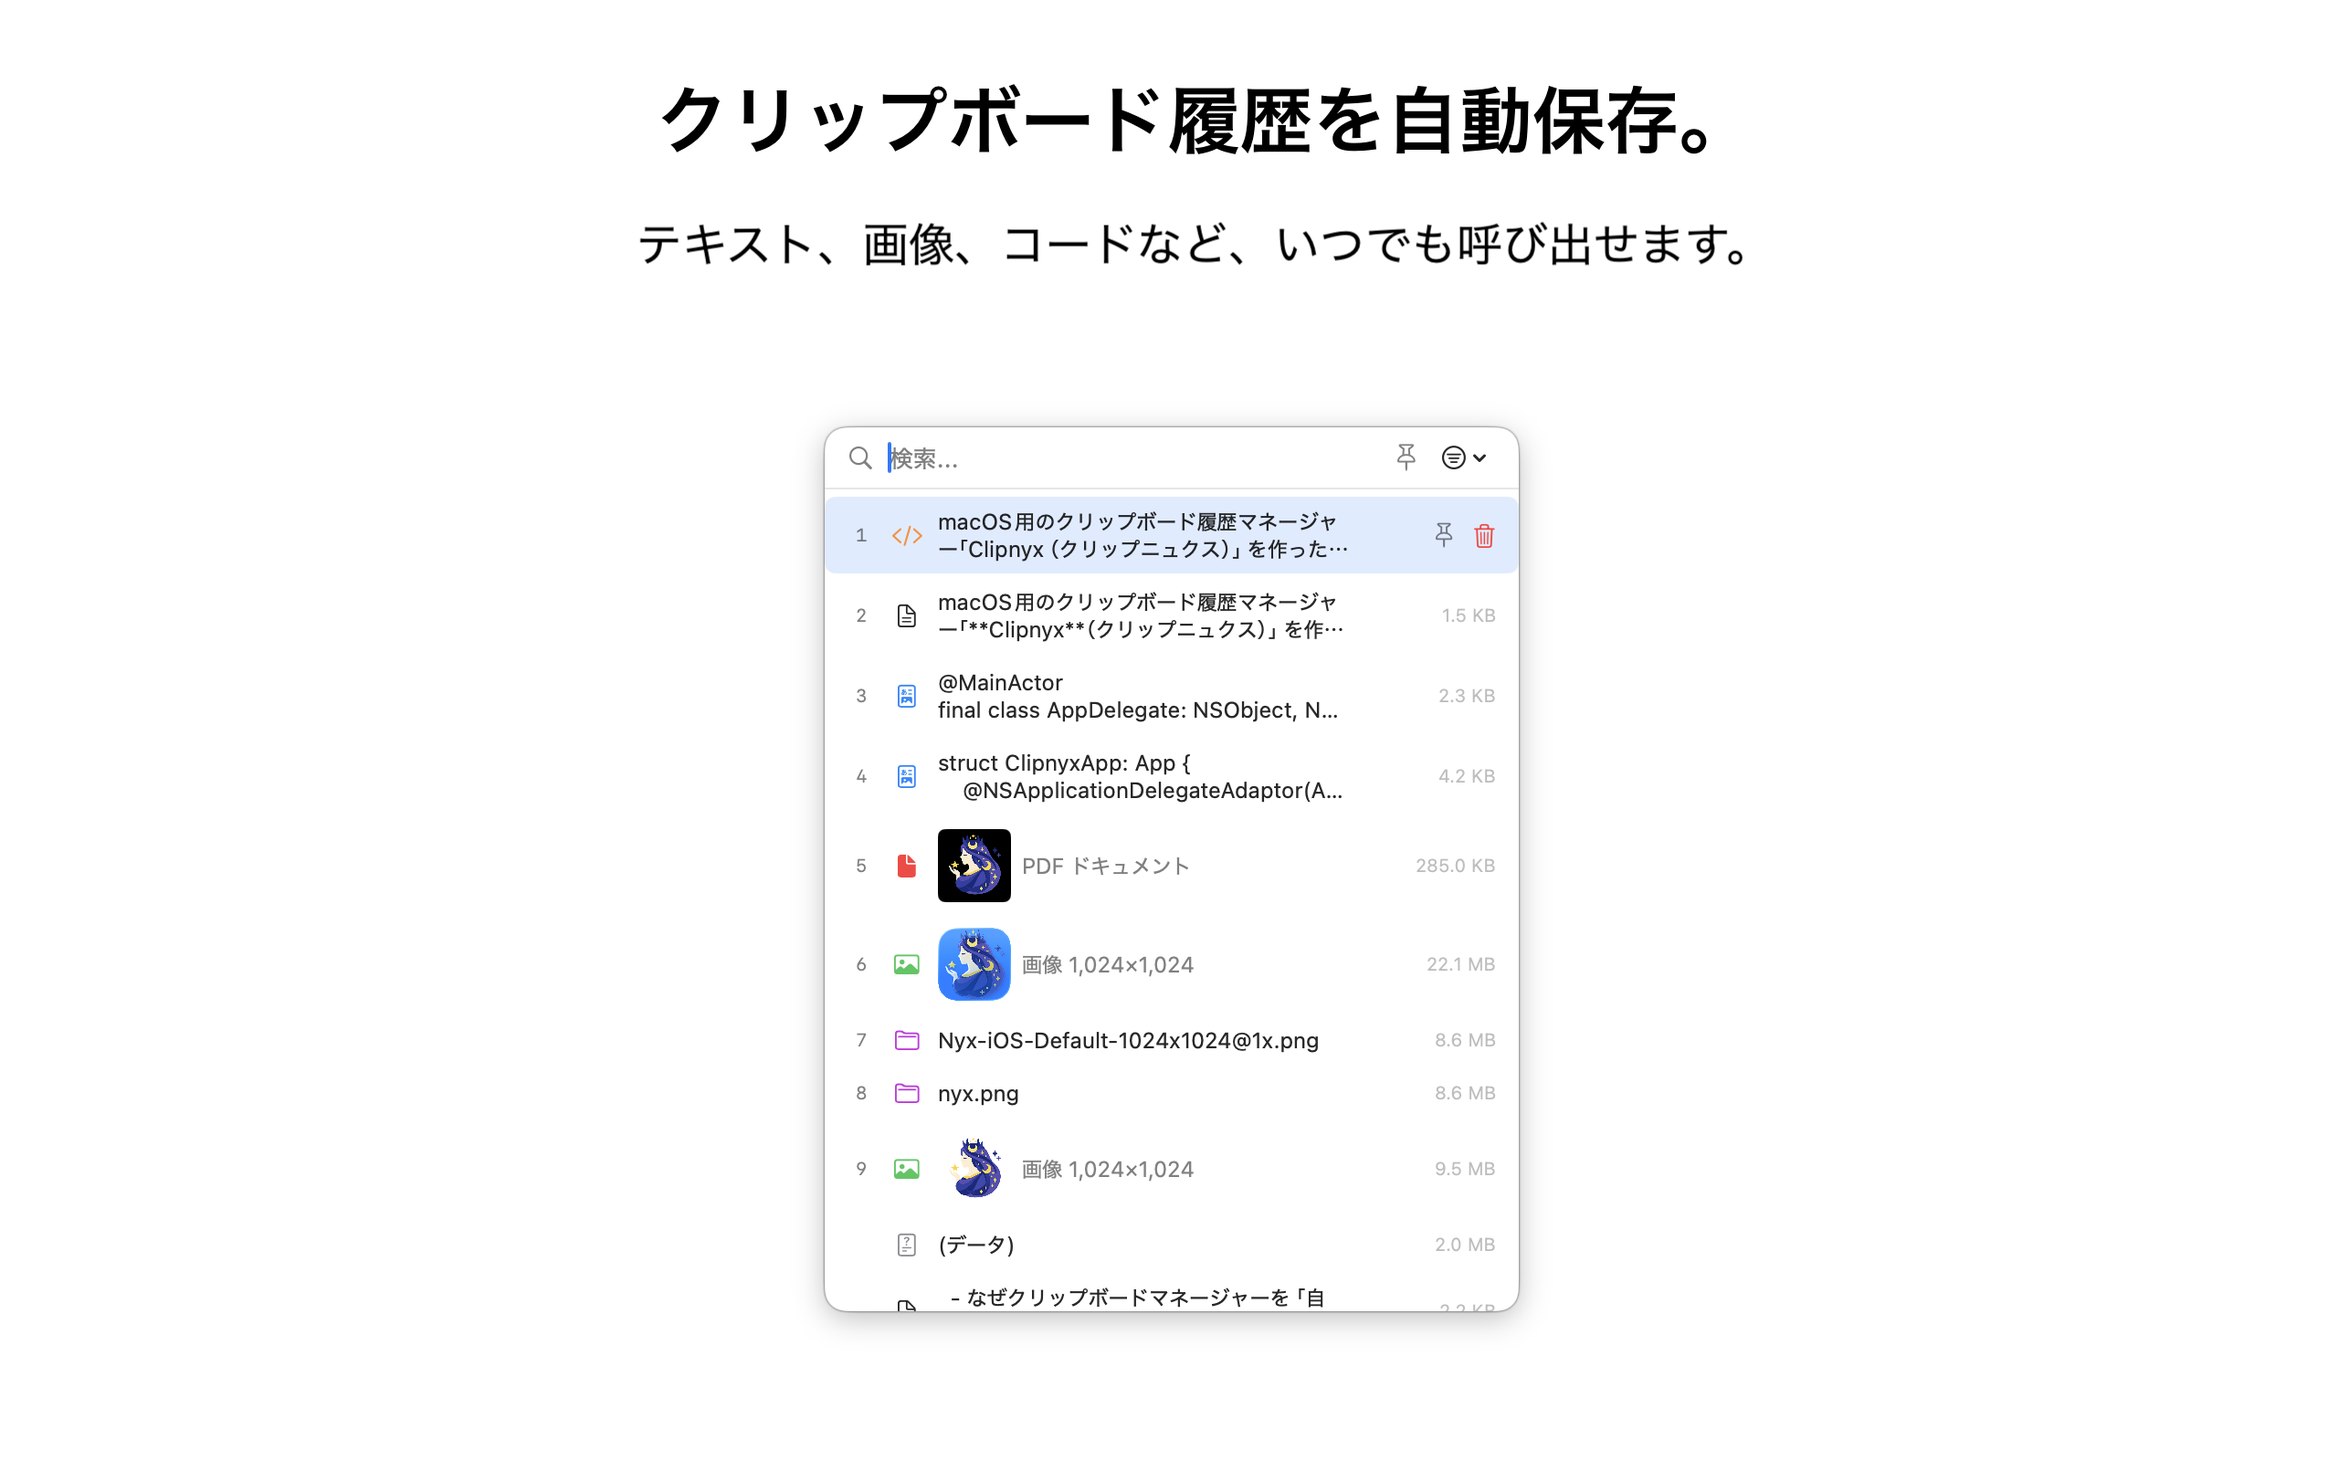
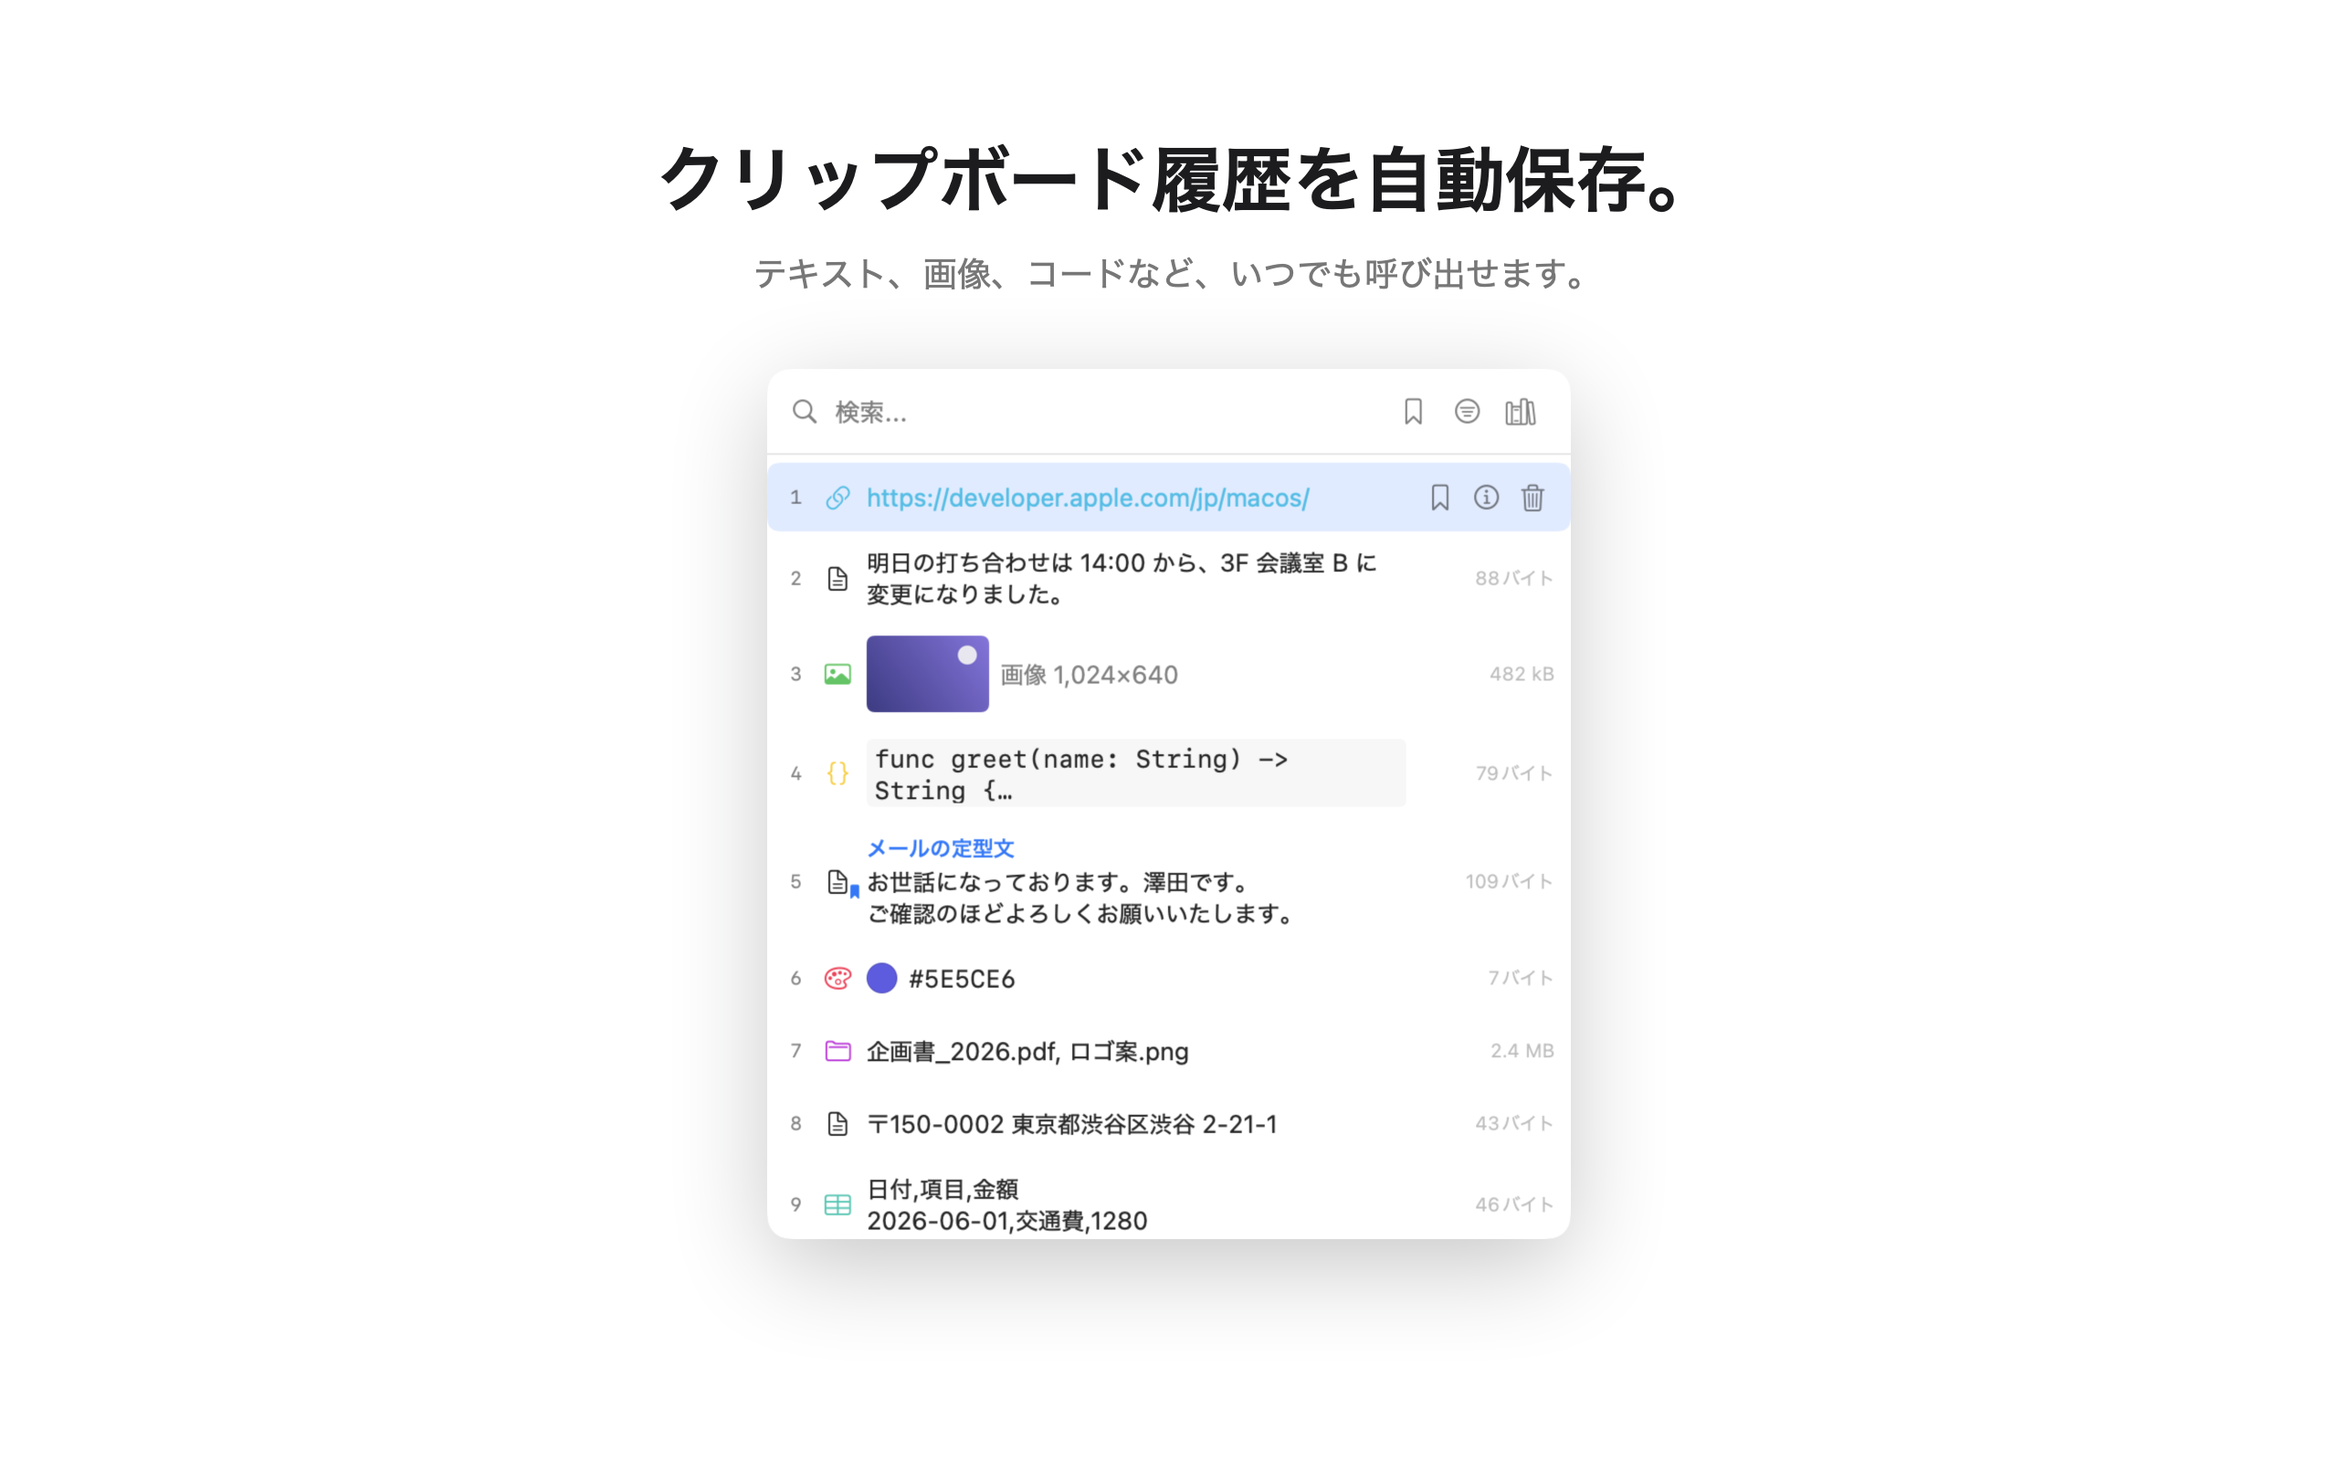
スクリーンショット生成を自動化
- Debug ビルド限定の ScreenshotRenderer を追加。--render-screenshots 起動引数で
  デモデータのペーストパネルをオフスクリーン描画し、ヘッドライン付き 2560×1600
  （App Store 用）とパネル単体の PNG をライト/ダーク × 日英で出力
- エントリポイントを ClipnyxMain に変更し、スクリーンショットモードでは
  通常起動せず終了（実データ・ストアには一切触れない）
- scripts/generate_screenshots.sh: ビルド→日英レンダリング→docs/（1440px に縮小）
  と fastlane/screenshots/（2560×1600）への配置までを一括実行
- 生成画像で docs/screenshot-*.png と fastlane/screenshots/ を更新
  （英語版はパネル内も英語化、デモデータも整理された内容に）

Changed region(s): [[0.3125, 0.25, 0.6875, 0.9062], [0.2812, 0.0625, 0.75, 0.2188], [0.625, 0.5938, 0.6562, 0.625]]

diff --git a/Clipnyx/Clipnyx/ScreenshotRenderer.swift b/Clipnyx/Clipnyx/ScreenshotRenderer.swift
@@ -1,0 +1,226 @@
+#if DEBUG
+import AppKit
+import SwiftUI
+
+/// マーケティング用スクリーンショットをオフスクリーン描画で生成する（Debug ビルド限定）。
+///
+/// `Clipnyx --render-screenshots -AppleLanguages '(ja)'` のように起動すると、
+/// 実データに触れずデモデータでペーストパネルを描画し、ヘッドライン付きの
+/// 2560×1600（App Store 用）画像とパネル単体の PNG を書き出して終了する。
+/// サンドックスのため出力先はコンテナ内の一時ディレクトリ（stdout にパスを出力）。
+/// 通常は scripts/generate_screenshots.sh から使う。
+@MainActor
+enum ScreenshotRenderer {
+    /// `--render-screenshots` 付きで起動されたときだけ実行し、true を返す
+    static func runIfRequested() -> Bool {
+        guard CommandLine.arguments.contains("--render-screenshots") else { return false }
+
+        NSApplication.shared.setActivationPolicy(.prohibited)
+
+        let outDir = URL(fileURLWithPath: NSTemporaryDirectory(), isDirectory: true)
+            .appendingPathComponent("clipnyx-screenshots", isDirectory: true)
+        try? FileManager.default.createDirectory(at: outDir, withIntermediateDirectories: true)
+
+        let isJapanese = Locale.preferredLanguages.first?.hasPrefix("ja") ?? false
+        let lang = isJapanese ? "ja" : "en"
+
+        for dark in [false, true] {
+            let style = dark ? "dark" : "light"
+            let panel = renderPanel(japanese: isJapanese, dark: dark)
+            write(panel, to: outDir.appendingPathComponent("panel-\(lang)-\(style).png"))
+            let marketing = renderMarketing(panel: panel, japanese: isJapanese, dark: dark)
+            write(marketing, to: outDir.appendingPathComponent("marketing-\(lang)-\(style).png"))
+        }
+
+        print("SCREENSHOTS_DIR: \(outDir.path)")
+        return true
+    }
+
+    // MARK: - Panel Rendering
+
+    private static func renderPanel(japanese: Bool, dark: Bool) -> NSImage {
+        let manager = ClipboardManager(
+            previewItems: demoItems(japanese: japanese),
+            previewFolders: demoFolders(japanese: japanese)
+        )
+        let hosting = NSHostingView(rootView: PopupContentView(
+            clipboardManager: manager,
+            onDismiss: {},
+            onPaste: {}
+        ))
+
+        let window = NSWindow(
+            contentRect: NSRect(x: 0, y: 0, width: 420, height: 560),
+            styleMask: [.borderless],
+            backing: .buffered,
+            defer: false
+        )
+        window.appearance = NSAppearance(named: dark ? .darkAqua : .aqua)
+        window.backgroundColor = .clear
+        window.isOpaque = false
+        window.contentView = hosting
+        window.setFrameOrigin(NSPoint(x: -10000, y: -10000))
+        window.orderFront(nil)
+
+        // LazyVStack の materialize と PreferenceKey ベースの高さ確定を待つ
+        pumpRunLoop(seconds: 0.8)
+        let height = min(max(hosting.fittingSize.height, 200), 560)
+        window.setContentSize(NSSize(width: 420, height: height))
+        pumpRunLoop(seconds: 0.4)
+
+        let bounds = hosting.bounds
+        guard let rep = hosting.bitmapImageRepForCachingDisplay(in: bounds) else {
+            fatalError("Failed to create bitmap rep for panel")
+        }
+        hosting.cacheDisplay(in: bounds, to: rep)
+        window.orderOut(nil)
+
+        let image = NSImage(size: bounds.size)
+        image.addRepresentation(rep)
+        return image
+    }
+
+    private static func pumpRunLoop(seconds: TimeInterval) {
+        RunLoop.main.run(until: Date().addingTimeInterval(seconds))
+    }
+
+    // MARK: - Marketing Composition (2560×1600 = 1280×800 @2x)
+
+    private static func renderMarketing(panel: NSImage, japanese: Bool, dark: Bool) -> NSImage {
+        let headline = japanese
+            ? "クリップボード履歴を自動保存。"
+            : "Automatically save clipboard history."
+        let subtitle = japanese
+            ? "テキスト、画像、コードなど、いつでも呼び出せます。"
+            : "Text, images, code, and more—you can access them anytime."
+
+        let view = MarketingShotView(panel: panel, headline: headline, subtitle: subtitle, dark: dark)
+        let renderer = ImageRenderer(content: view)
+        renderer.scale = 2
+        guard let image = renderer.nsImage else {
+            fatalError("Failed to render marketing image")
+        }
+        return image
+    }
+
+    private struct MarketingShotView: View {
+        let panel: NSImage
+        let headline: String
+        let subtitle: String
+        let dark: Bool
+
+        var body: some View {
+            VStack(spacing: 16) {
+                Text(headline)
+                    .font(.system(size: 42, weight: .bold))
+                    .foregroundStyle(dark ? Color.white : Color(red: 0.11, green: 0.11, blue: 0.12))
+                Text(subtitle)
+                    .font(.system(size: 20))
+                    .foregroundStyle(dark ? Color.white.opacity(0.65) : Color(red: 0.11, green: 0.11, blue: 0.12).opacity(0.6))
+                Image(nsImage: panel)
+                    .resizable()
+                    .scaledToFit()
+                    .frame(width: 440)
+                    .shadow(color: .black.opacity(dark ? 0.6 : 0.22), radius: 28, y: 14)
+                    .padding(.top, 24)
+            }
+            .padding(.top, 72)
+            .frame(width: 1280, height: 800, alignment: .top)
+            .background(dark ? Color(red: 0.11, green: 0.11, blue: 0.12) : Color.white)
+        }
+    }
+
+    // MARK: - Demo Data
+
+    private static func demoFolders(japanese: Bool) -> [FavoriteFolder] {
+        [FavoriteFolder(name: japanese ? "定型文" : "Templates", order: 0)]
+    }
+
+    private static func demoItems(japanese: Bool) -> [ClipboardItem] {
+        let folderId = demoFolders(japanese: japanese)[0].id
+        var order = 0
+        func item(
+            _ category: ClipboardContentCategory,
+            _ preview: String,
+            size: Int? = nil,
+            thumbnail: Data? = nil,
+            favorite: String? = nil,
+            inFolder: Bool = false
+        ) -> ClipboardItem {
+            order += 1
+            return ClipboardItem(
+                id: UUID(),
+                timestamp: Date().addingTimeInterval(TimeInterval(-order * 173)),
+                category: category,
+                previewText: preview,
+                thumbnailData: thumbnail,
+                totalDataSize: size ?? preview.utf8.count,
+                contentHash: Data([UInt8(order)]),
+                representationInfos: [RepresentationInfo(type: NSPasteboard.PasteboardType.string.rawValue, size: size ?? preview.utf8.count)],
+                isSaved: favorite != nil,
+                favoriteName: favorite,
+                favoriteFolderId: inFolder ? folderId : nil
+            )
+        }
+
+        if japanese {
+            return [
+                item(.url, "https://developer.apple.com/jp/macos/"),
+                item(.plainText, "明日の打ち合わせは 14:00 から、3F 会議室 B に変更になりました。"),
+                item(.image, "画像 1,024×640", size: 482_304, thumbnail: demoThumbnail()),
+                item(.sourceCode, "func greet(name: String) -> String {\n    \"こんにちは、\\(name)さん！\"\n}"),
+                item(.plainText, "お世話になっております。澤田です。\nご確認のほどよろしくお願いいたします。", favorite: "メールの定型文", inFolder: true),
+                item(.color, "#5E5CE6"),
+                item(.fileURL, "企画書_2026.pdf, ロゴ案.png", size: 2_412_544),
+                item(.plainText, "〒150-0002 東京都渋谷区渋谷 2-21-1"),
+                item(.csv, "日付,項目,金額\n2026-06-01,交通費,1280"),
+            ]
+        } else {
+            return [
+                item(.url, "https://developer.apple.com/macos/"),
+                item(.plainText, "Tomorrow's meeting has been moved to 2:00 PM in Conference Room B."),
+                item(.image, "Image 1,024×640", size: 482_304, thumbnail: demoThumbnail()),
+                item(.sourceCode, "func greet(name: String) -> String {\n    \"Hello, \\(name)!\"\n}"),
+                item(.plainText, "Thanks for reaching out!\nPlease let me know if you have any questions.", favorite: "Email template", inFolder: true),
+                item(.color, "#5E5CE6"),
+                item(.fileURL, "Proposal_2026.pdf, Logo_draft.png", size: 2_412_544),
+                item(.plainText, "1 Apple Park Way, Cupertino, CA 95014"),
+                item(.csv, "date,item,amount\n2026-06-01,transit,12.80"),
+            ]
+        }
+    }
+
+    private static func demoThumbnail() -> Data? {
+        let size = NSSize(width: 512, height: 320)
+        let image = NSImage(size: size, flipped: false) { rect in
+            let gradient = NSGradient(colors: [
+                NSColor(calibratedRed: 0.18, green: 0.16, blue: 0.45, alpha: 1),
+                NSColor(calibratedRed: 0.45, green: 0.35, blue: 0.85, alpha: 1),
+            ])
+            gradient?.draw(in: rect, angle: 35)
+            // 月っぽい円を添える
+            NSColor(calibratedWhite: 0.95, alpha: 0.9).setFill()
+            NSBezierPath(ovalIn: NSRect(x: rect.maxX - 130, y: rect.maxY - 120, width: 80, height: 80)).fill()
+            return true
+        }
+        guard let tiff = image.tiffRepresentation,
+              let rep = NSBitmapImageRep(data: tiff) else { return nil }
+        return rep.representation(using: .png, properties: [:])
+    }
+
+    // MARK: - Output
+
+    private static func write(_ image: NSImage, to url: URL) {
+        guard let tiff = image.tiffRepresentation,
+              let rep = NSBitmapImageRep(data: tiff),
+              let png = rep.representation(using: .png, properties: [:]) else {
+            fatalError("Failed to encode \(url.lastPathComponent)")
+        }
+        do {
+            try png.write(to: url)
+        } catch {
+            fatalError("Failed to write \(url.path): \(error)")
+        }
+    }
+}
+#endif

diff --git a/Clipnyx/Clipnyx/Managers/ClipboardManager.swift b/Clipnyx/Clipnyx/Managers/ClipboardManager.swift
@@ -40,6 +40,17 @@ final class ClipboardManager {
         startPolling()
     }
 
+    #if DEBUG
+    /// スクリーンショット生成用: ストアの読み書きもポーリングもしない
+    init(previewItems: [ClipboardItem], previewFolders: [FavoriteFolder]) {
+        maxHistoryCount = 50
+        maxTotalSizeMB = 1024
+        excludedCategories = []
+        items = previewItems
+        favoriteFolders = previewFolders
+    }
+    #endif
+
     // MARK: - Polling
 
     // タイマーはメインランループにスケジュールされるため、コールバックは常にメインスレッド。

diff --git a/Clipnyx/Clipnyx/ClipnyxApp.swift b/Clipnyx/Clipnyx/ClipnyxApp.swift
@@ -1,6 +1,18 @@
 import SwiftUI
 
 @main
+enum ClipnyxMain {
+    static func main() {
+        MainActor.assumeIsolated {
+            #if DEBUG
+            // スクリーンショット生成モードのときは通常起動せずに終了する
+            if ScreenshotRenderer.runIfRequested() { return }
+            #endif
+            ClipnyxApp.main()
+        }
+    }
+}
+
 struct ClipnyxApp: App {
     @NSApplicationDelegateAdaptor(AppDelegate.self) var appDelegate
 

diff --git a/CLAUDE.md b/CLAUDE.md
@@ -56,6 +56,11 @@ Clipnyx/Clipnyx/
 - **Debug-Full / Release-Full**: Full 版（サンドボックス + Sparkle）
 - `ENABLE_SPARKLE` コンパイルフラグで Sparkle 関連コードを分岐
 
+## スクリーンショット生成
+- `scripts/generate_screenshots.sh` で LP 用（docs/screenshot-*.png）と App Store 用（fastlane/screenshots/）を自動生成
+- Debug ビルドの `ScreenshotRenderer`（`--render-screenshots` 起動引数、`#if DEBUG`）がデモデータでパネルをオフスクリーン描画。実データには触れない
+- ライト/ダーク × 日英の全バリアントがコンテナ内 tmp に出力される（ダーク版は現状未使用）
+
 ## CI/CD
 - **リリース**: `gh workflow run "Release Full (Homebrew)" --ref main` を実行するだけで両エディションがデプロイされる
   - Full 版: GitHub Actions でビルド → 署名 → 公証 → DMG → appcast.xml 更新 → Homebrew Cask 更新 → タグ `v*` 作成
